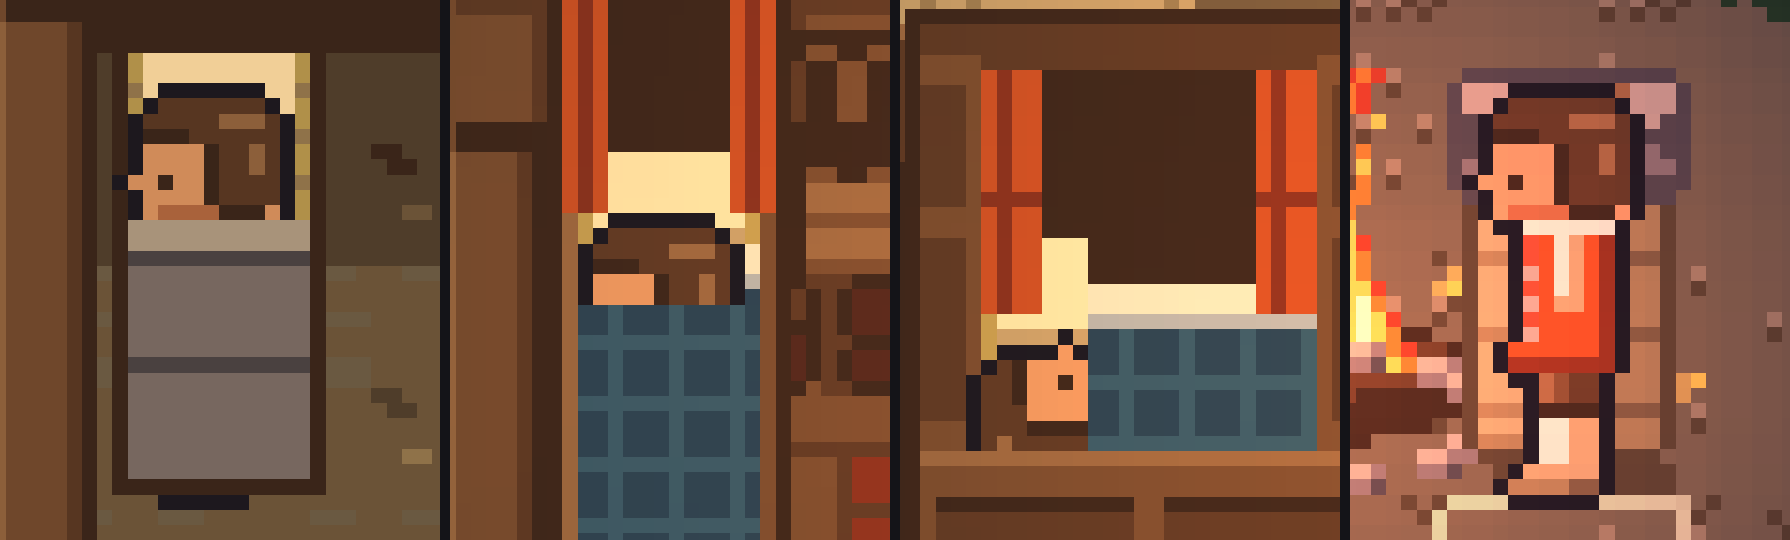
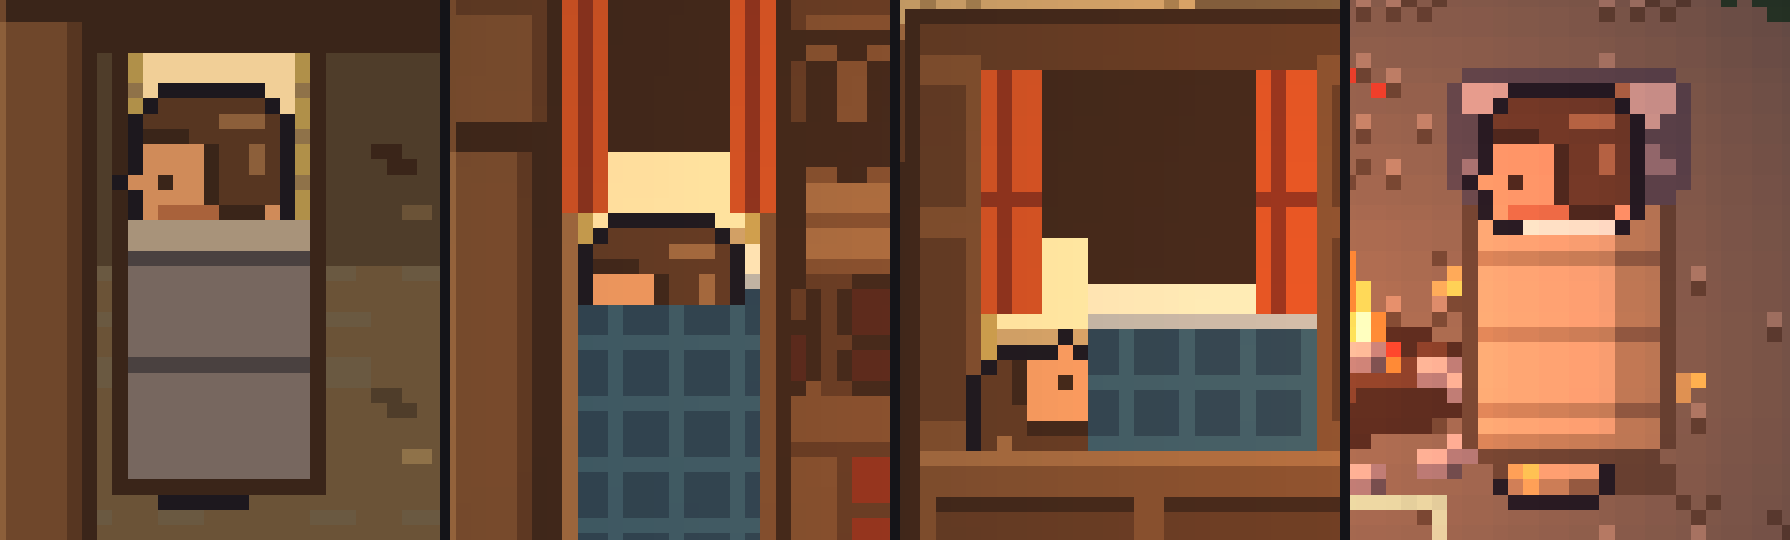
The bedroll has a cover too: only the head shows when the player wakes on it
The bedroll's picture below its head end is cut out as assets/bedroll_cover.png
and an ObjectCover sprite shows it over the player lying in the bedroll, as the
covers of the beds in houses do. PlayerView.COVER_Z_INDEX is the shared z.
The waking-in-bed screenshot is taken again.

diff --git a/tools/art/camp.py b/tools/art/camp.py
@@ -83,3 +83,18 @@ def bedroll():
         rect(canvas, x, top + 1, x, top + 7, "soil")
         canvas[top + 1][x] = "soil_light"
     return canvas
+
+
+# The rows of the bedroll cell from which the bedroll covers a player lying in it: below the
+# rolled blanket at the head end, so only the head shows.
+BEDROLL_COVER_FROM_ROW = 62
+
+
+def bedroll_cover():
+    """The part of the bedroll drawn over the player lying on it (assets/bedroll_cover.png): the
+    cell of `bedroll` with everything above BEDROLL_COVER_FROM_ROW cleared, and its ground
+    shadow, which the atlas draws on its own."""
+    canvas = bedroll()
+    for y in range(BEDROLL_COVER_FROM_ROW):
+        canvas[y] = [None] * OBJECT_CELL_WIDTH
+    return [[None if colour == "shadow" else colour for colour in row] for row in canvas]

diff --git a/tools/art/generate.py b/tools/art/generate.py
@@ -247,6 +247,10 @@ def write_interior():
         save_picture(picture, f"interior/{name}.png")
 
 
+def write_bedroll_cover():
+    save_picture(camp.bedroll_cover(), "bedroll_cover.png")
+
+
 def write_fire():
     for name, (behind, front), (box, half_width, tall) in (
         ("fireplace", camp.fireplace_layers(), camp.FIREPLACE_FLAME),
@@ -284,6 +288,7 @@ def main():
     write_seasonal_art()
     write_character()
     write_interior()
+    write_bedroll_cover()
     write_fire()
     write_wildlife()
     write_crops()

diff --git a/TASKS.md b/TASKS.md
@@ -525,7 +525,8 @@ head left for the box bed; the type data `bed` is the head direction). The beds 
 are drawn below the entities (`InteriorView`'s `Beds` node) and `<bed>_cover.png`, the blanket
 cut from the bed's picture by tools/art/interior.py (`BED_COVERS`), is shown above the player
 while they lie there; the straw mat got a wool blanket for it. Outdoors the player lies on the
-bedroll, drawn above the objects (`LYING_Z_INDEX`). The beds do not block walking any more;
+bedroll (above the objects, `LYING_Z_INDEX`) under `assets/bedroll_cover.png`, the bag cut from
+its atlas cell by `camp.bedroll_cover` and shown by `ObjectCover` (the snow looks use the same cover). The beds do not block walking any more;
 the saved game of the report (player standing on the box bed of the longhouse, `[1.5, 2.5]`)
 loads and walks. No save change, so no new version. `GameState` got the same
 `max-public-methods` exception as `World`. Screenshots in docs/screenshots/waking-in-bed.png.

diff --git a/SPEC.md b/SPEC.md
@@ -221,7 +221,7 @@ top of classic pixel art (details under "Lighting and look").
 - **Waking in the bed** (decided 2026-11-06, after a player woke behind a bed and was stuck):
   after sleeping and after passing out the player wakes lying in the middle of the bed, head
   on the pillow and the body under the blanket (the asleep frame of the collapse, turned to
-  the bed; on the bedroll outdoors they lie on it). They get up on their first move. The beds
+  the bed; the bedroll at the camp has its own cover, `ObjectCover`). They get up on their first move. The beds
   of the houses are drawn in layers: frame and pillow under the player, the blanket over them
   while they lie there. Beds no longer block walking, so nobody can be stuck in or behind one.
   Nothing of this is saved: a game saved in bed loads with the player standing on it.

diff --git a/README.md b/README.md
@@ -203,7 +203,7 @@ your energy. A message says what happened before the morning fades in.
 ![Passing out: kneeling, tipping over, asleep, and the message on waking](docs/screenshots/passing-out.png)
 
 After sleeping or passing out you wake lying in the middle of the bed, head on the pillow
-and under the blanket (on the bedroll at the camp: on it), and get up with your first step.
+and under the blanket (also on the bedroll at the camp), and get up with your first step.
 Beds don't block walking, so you can't get stuck behind one.
 
 ![Waking in the shack, the Kate, the longhouse and at the camp](docs/screenshots/waking-in-bed.png)
